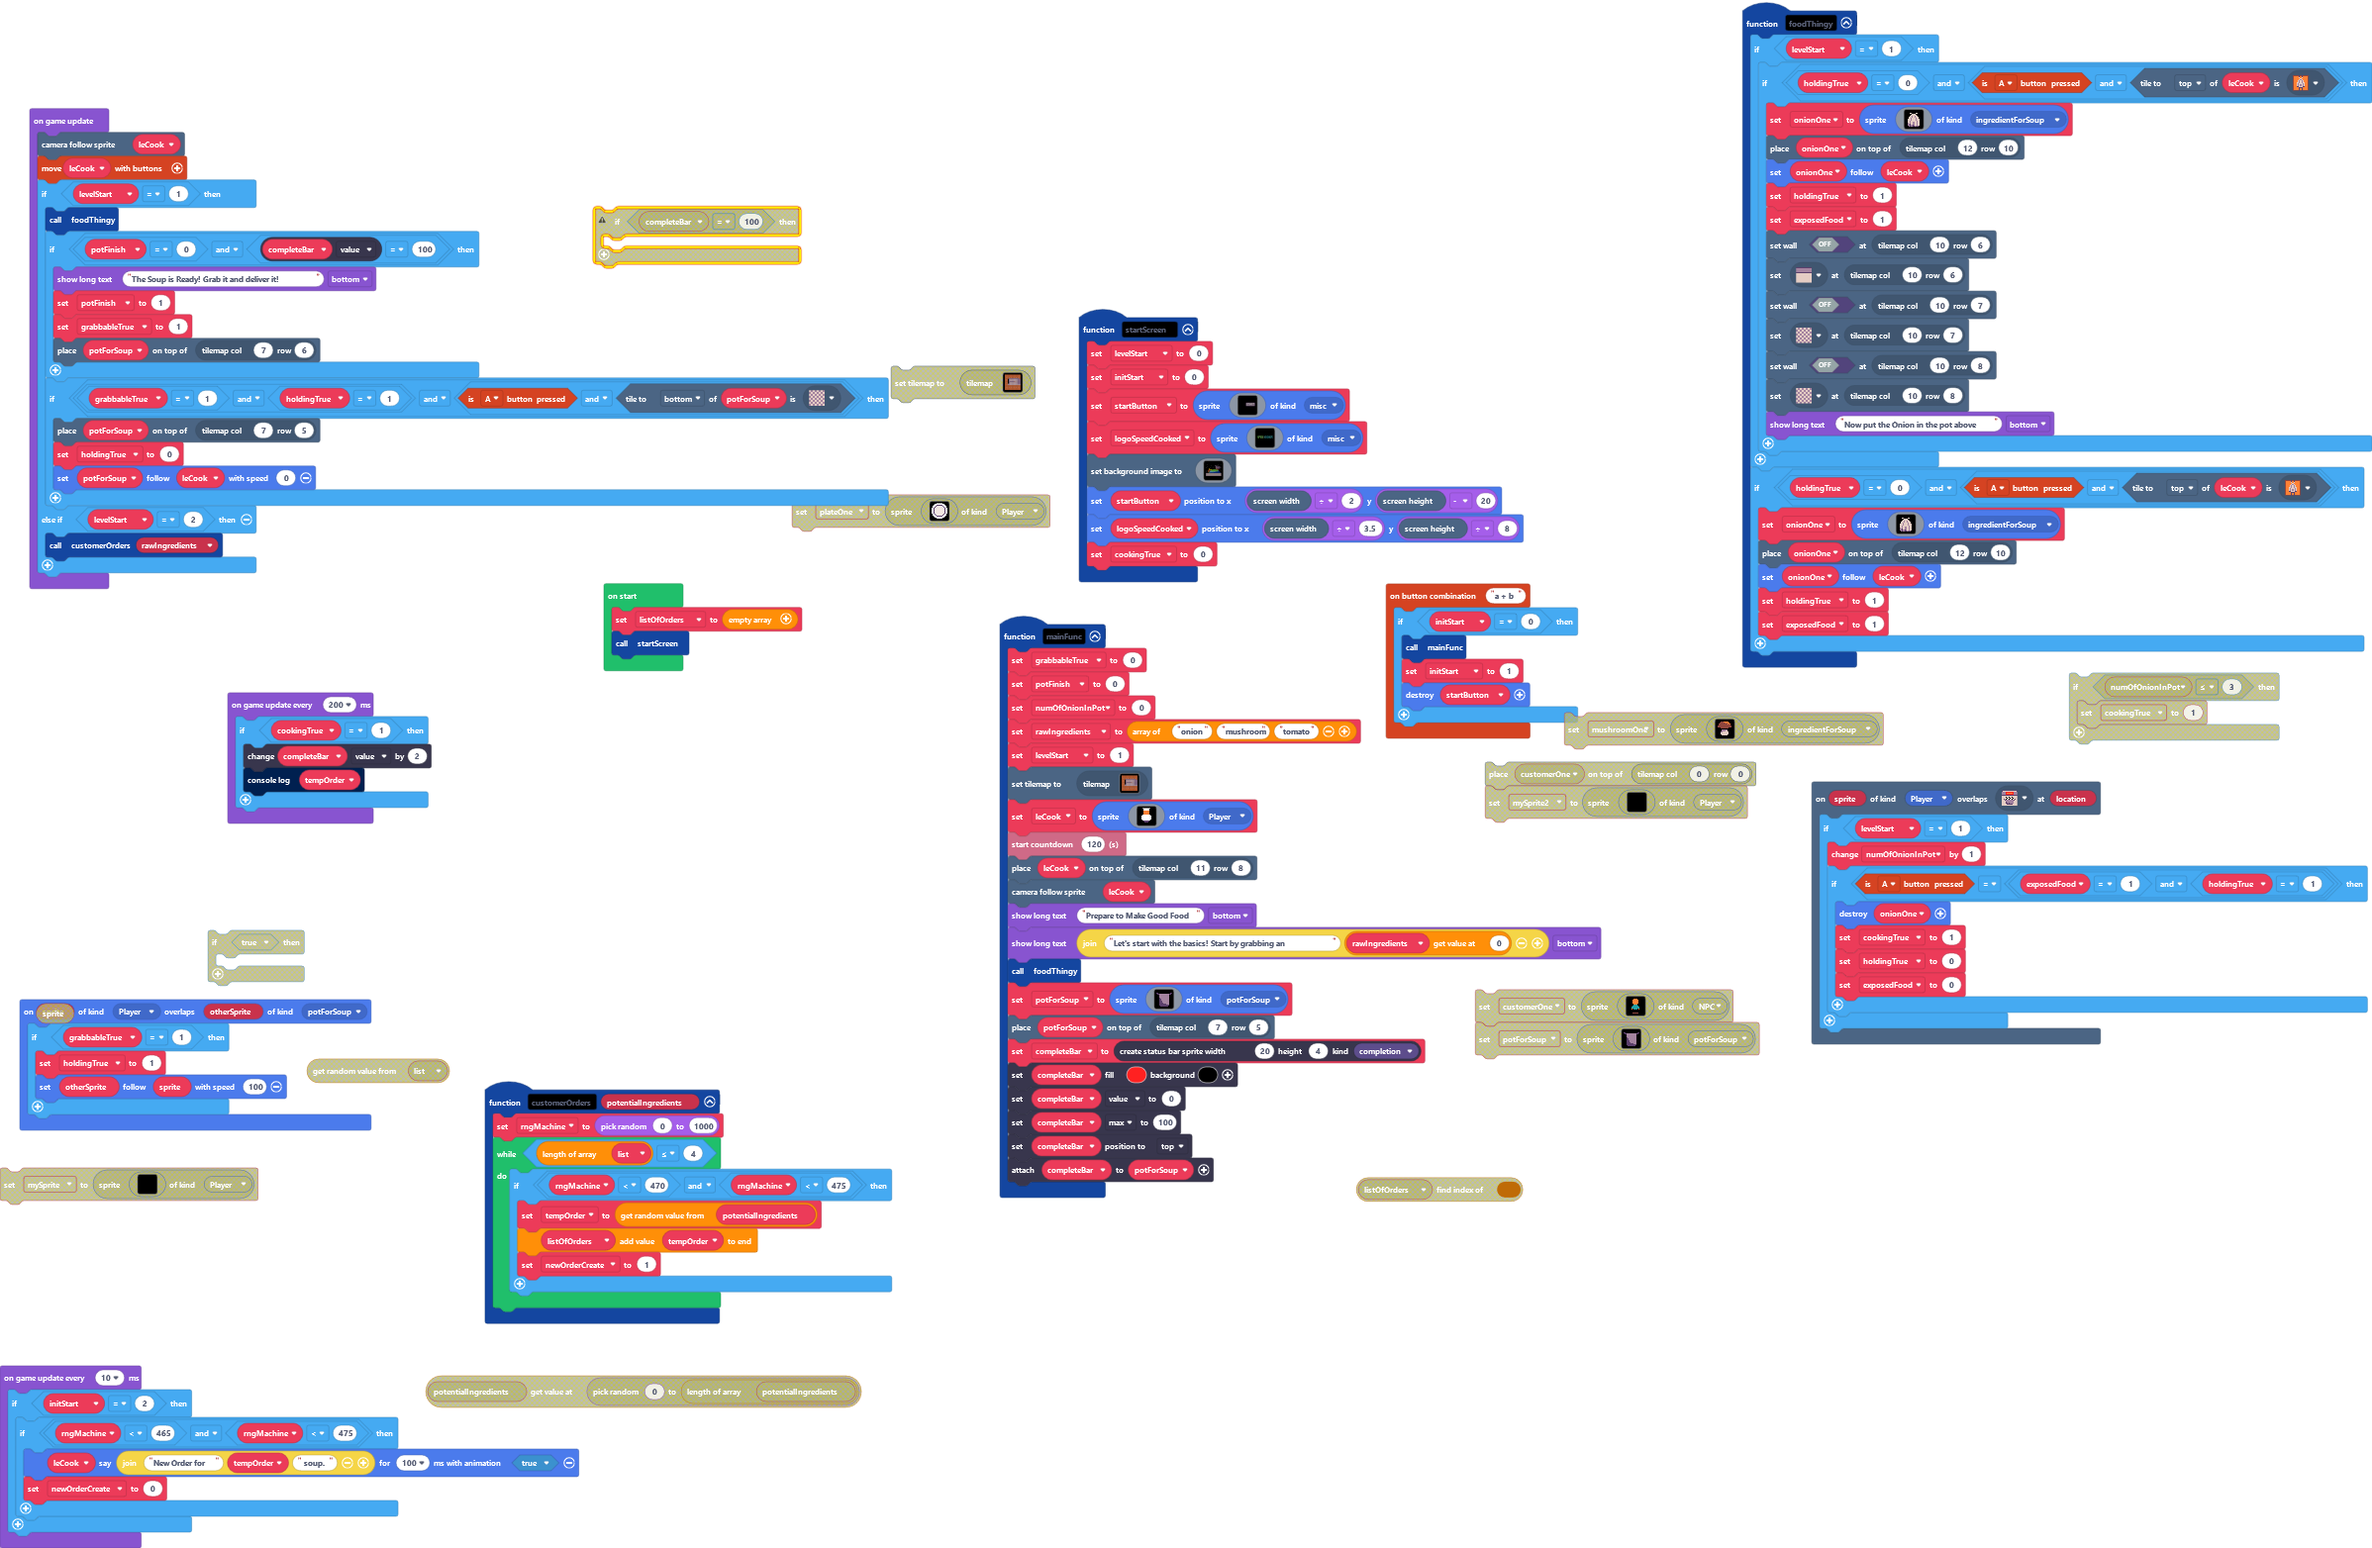
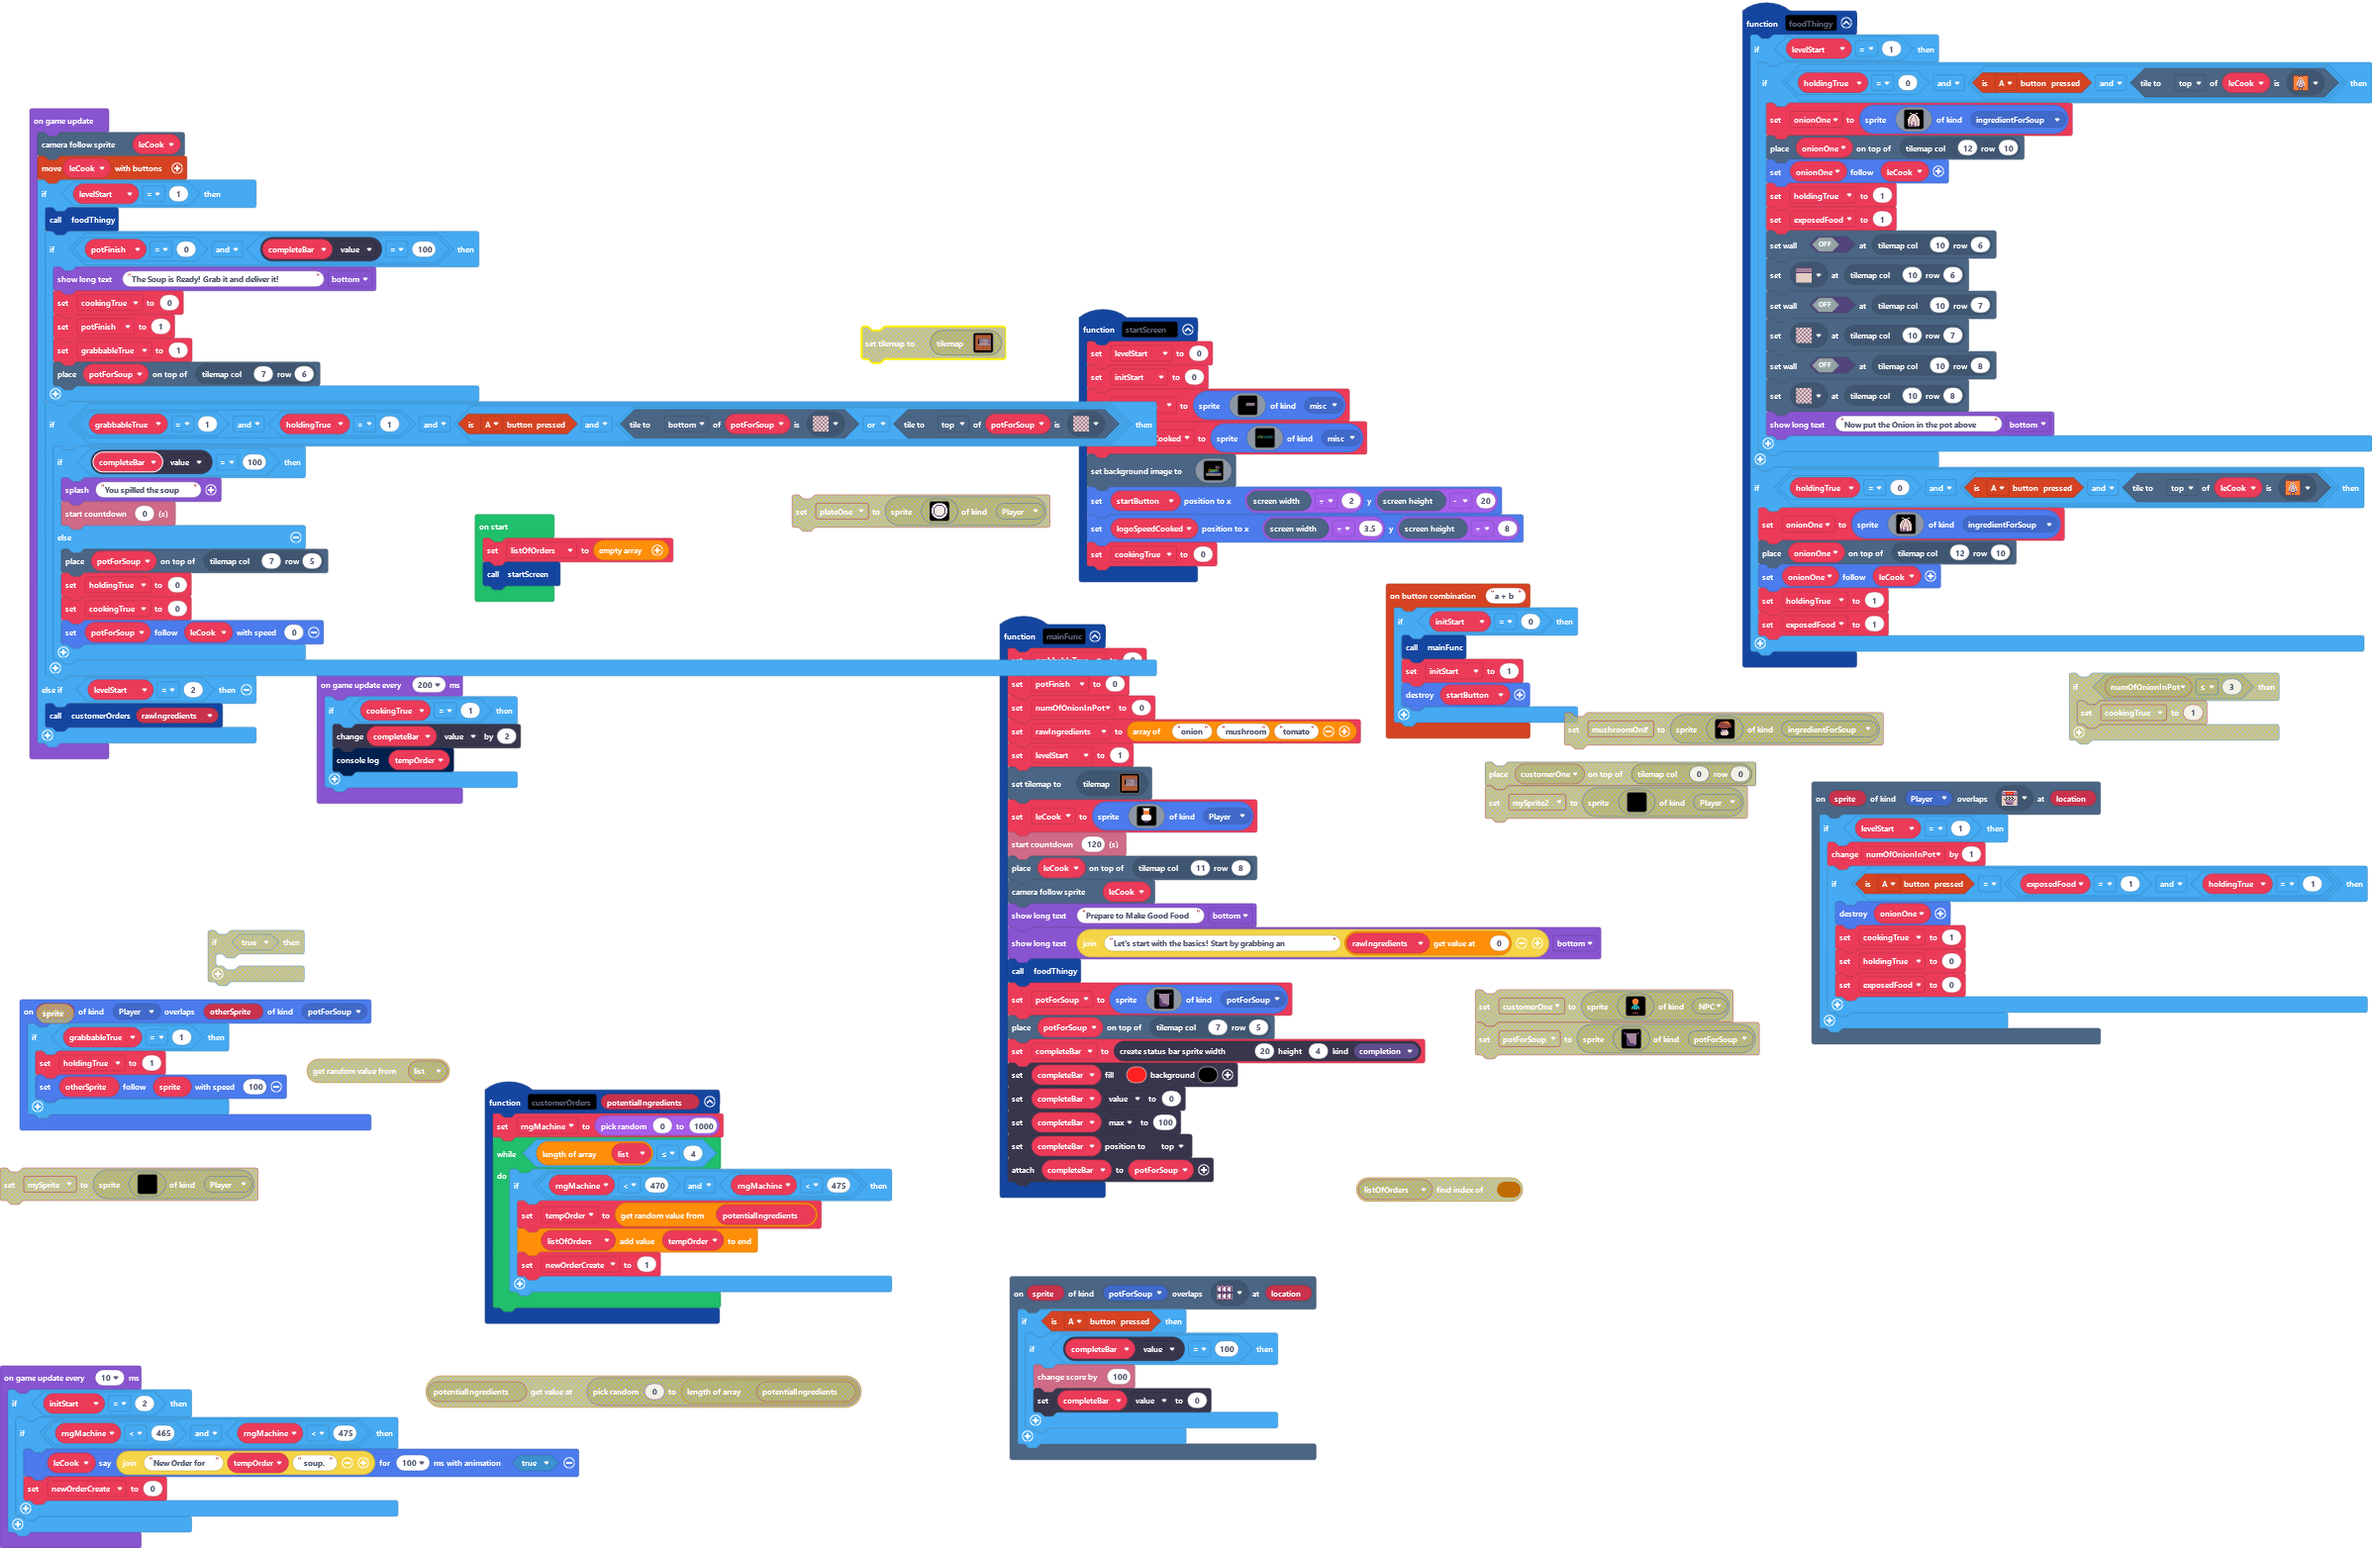
Update main.blocks, main.ts, tilemap.g.jres, tilemap.g.ts

Changed region(s): [[0.0, 0.1841, 0.4942, 0.5524], [0.4015, 0.798, 0.5559, 0.9514], [0.2471, 0.1228, 0.3397, 0.1841]]

diff --git a/tilemap.g.ts b/tilemap.g.ts
@@ -30,6 +30,8 @@ namespace myTiles {
     export const tile5 = image.ofBuffer(hex``);
     //% fixedInstance jres blockIdentity=images._tile
     export const tile7 = image.ofBuffer(hex``);
+    //% fixedInstance jres blockIdentity=images._tile
+    export const tile15 = image.ofBuffer(hex``);
 
     helpers._registerFactory("tilemap", function(name: string) {
         switch(helpers.stringTrim(name)) {
@@ -53,7 +55,7 @@ namespace myTiles {
 . . . . . . . . . . . . . . . . 
 `, [myTiles.transparency16], TileScale.Sixteen);
             case "level1":
[2 lines of base64/hex data omitted]
 ....................
 ....................
 ....................
@@ -74,7 +76,7 @@ namespace myTiles {
 ....................
 ....................
 ....................
-`, [myTiles.transparency16,myTiles.tile1,myTiles.tile3,myTiles.tile4,myTiles.tile8,myTiles.tile9,myTiles.tile10,myTiles.tile12,myTiles.tile13,myTiles.tile14,myTiles.tile5,myTiles.tile7], TileScale.Sixteen);
+`, [myTiles.transparency16,myTiles.tile1,myTiles.tile3,myTiles.tile4,myTiles.tile8,myTiles.tile9,myTiles.tile10,myTiles.tile12,myTiles.tile13,myTiles.tile14,myTiles.tile5,myTiles.tile7,myTiles.tile15], TileScale.Sixteen);
         }
         return null;
     })
@@ -110,6 +112,8 @@ namespace myTiles {
             case "tile5":return tile5;
             case "myTile1":
             case "tile7":return tile7;
+            case "tileFloor0":
+            case "tile15":return tile15;
         }
         return null;
     })

diff --git a/main.ts b/main.ts
@@ -289,6 +289,14 @@ function foodThingy () {
         exposedFood = 1
     }
 }
+scene.onOverlapTile(SpriteKind.potForSoup, assets.tile`checkOut`, function (sprite, location) {
+    if (controller.A.isPressed()) {
+        if (completeBar.value == 100) {
+            info.changeScoreBy(100)
+            completeBar.value = 0
+        }
+    }
+})
 let logoSpeedCooked: Sprite = null
 let completeBar: StatusBarSprite = null
 let potForSoup: Sprite = null
@@ -317,14 +325,21 @@ game.onUpdate(function () {
         foodThingy()
         if (potFinish == 0 && completeBar.value == 100) {
             game.showLongText("The Soup is Ready! Grab it and deliver it!", DialogLayout.Bottom)
+            cookingTrue = 0
             potFinish = 1
             grabbableTrue = 1
             tiles.placeOnTile(potForSoup, tiles.getTileLocation(7, 6))
         }
-        if (grabbableTrue == 1 && holdingTrue == 1 && (controller.A.isPressed() && potForSoup.tileKindAt(TileDirection.Bottom, assets.tile`tileFloor`))) {
-            tiles.placeOnTile(potForSoup, tiles.getTileLocation(7, 5))
-            holdingTrue = 0
-            potForSoup.follow(leCook, 0)
+        if (grabbableTrue == 1 && holdingTrue == 1 && (controller.A.isPressed() && (potForSoup.tileKindAt(TileDirection.Bottom, assets.tile`tileFloor`) || potForSoup.tileKindAt(TileDirection.Top, assets.tile`tileFloor`)))) {
+            if (completeBar.value == 100) {
+                game.splash("You spilled the soup")
+                info.startCountdown(0)
+            } else {
+                tiles.placeOnTile(potForSoup, tiles.getTileLocation(7, 5))
+                holdingTrue = 0
+                cookingTrue = 0
+                potForSoup.follow(leCook, 0)
+            }
         }
     } else if (levelStart == 2) {
         customerOrders(rawIngredients)
